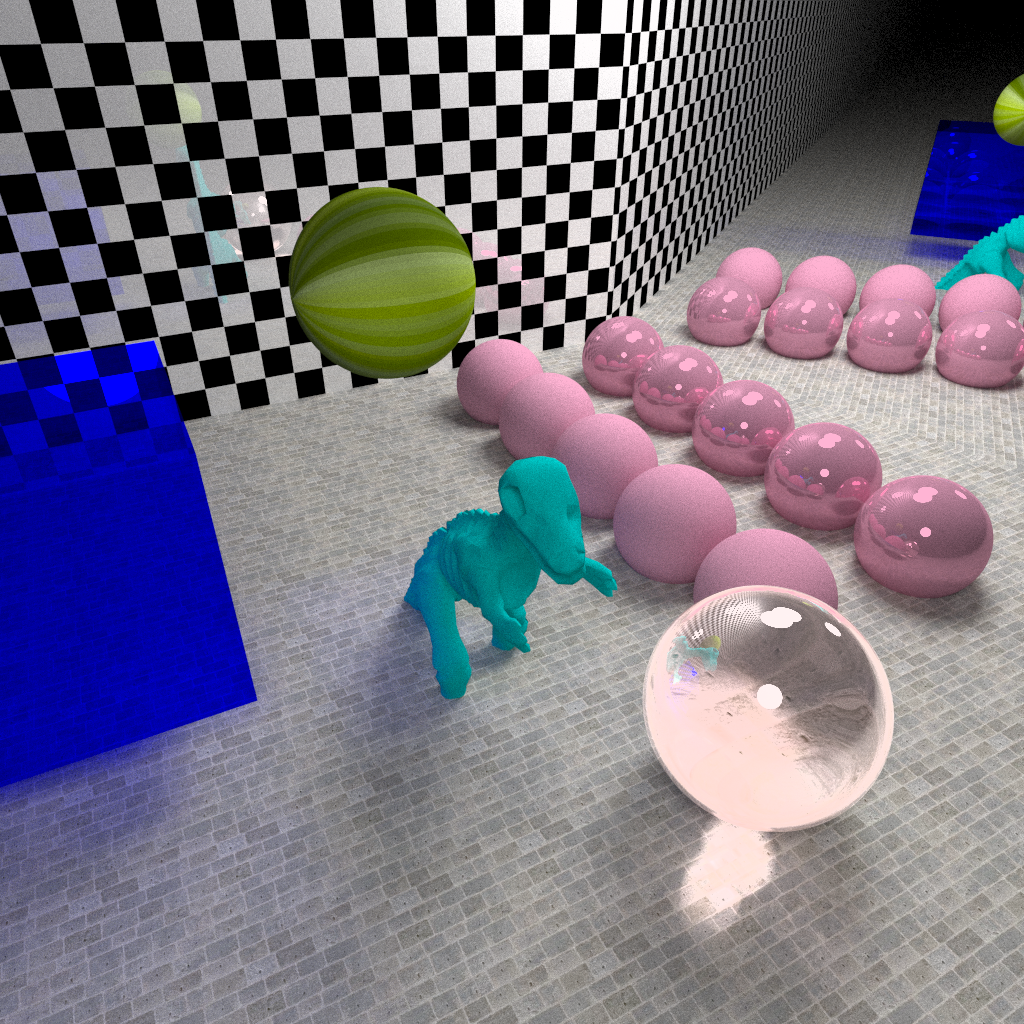
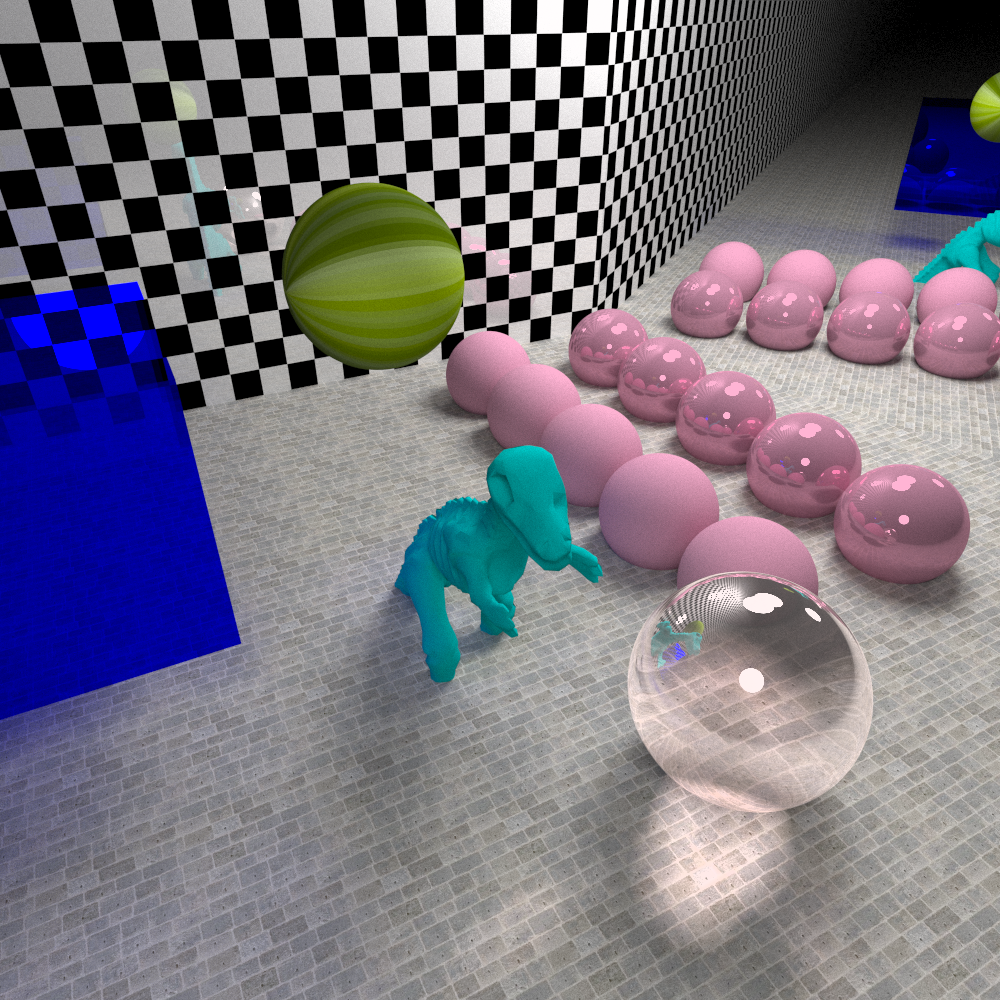
fix bug on size of the output

diff --git a/src/main.cc b/src/main.cc
@@ -1,5 +1,5 @@
 // File: main.cc
-// Date: Sat Sep 21 11:56:51 2013 +0800
+// Date: Sat Sep 21 23:28:17 2013 +0800
 // Author: Yuxin Wu <ppwwyyxxc@gmail.com>
 #include <sys/types.h>
 #include <dirent.h>
@@ -19,7 +19,7 @@ void all(bool g) {
 	int w = 1000, h = 1000;
 	Space s;
 	s.add_light(Light(PureSphere(Vec(+10, 10, 20), 4), Color::WHITE, 15));
-	s.add_light(Light(PureSphere(Vec(-10, -10, 20), 4), Color::WHITE, 10));
+	s.add_light(Light(PureSphere(Vec(-10, -10, 20), 4), Color::WHITE, 8));
 
 	shared_ptr<Texture> t_diffuse = make_shared<HomoTexture>(Surface::GOOD);
 	shared_ptr<Texture> t_refl = make_shared<HomoTexture>(Surface::GOOD_REFL);
@@ -379,7 +379,7 @@ int main(int argc, char* argv[]) {
 		case 4:
 			test_simplify();
 			break;
-		case 5:
+			case 5:
 			test_shadow();
 			break;
 		case 6:

diff --git a/src/view.cc b/src/view.cc
@@ -1,5 +1,5 @@
 // File: view.cc
-// Date: Sun Jun 23 20:16:04 2013 +0800
+// Date: Sat Sep 21 23:19:39 2013 +0800
 // Author: Yuxin Wu <ppwwyyxxc@gmail.com>
 
 #include "view.hh"
@@ -47,7 +47,6 @@ Color View::render(int i, int j, bool debug) const {
 		return Color(ppp(ret.x), ppp(ret.y), ppp(ret.z));
 #undef ppp
 	}
-
 
 
 	if (!use_dof) {
